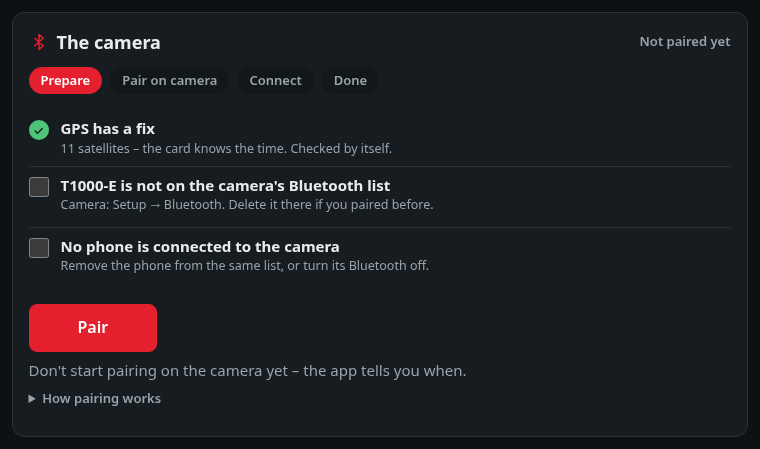
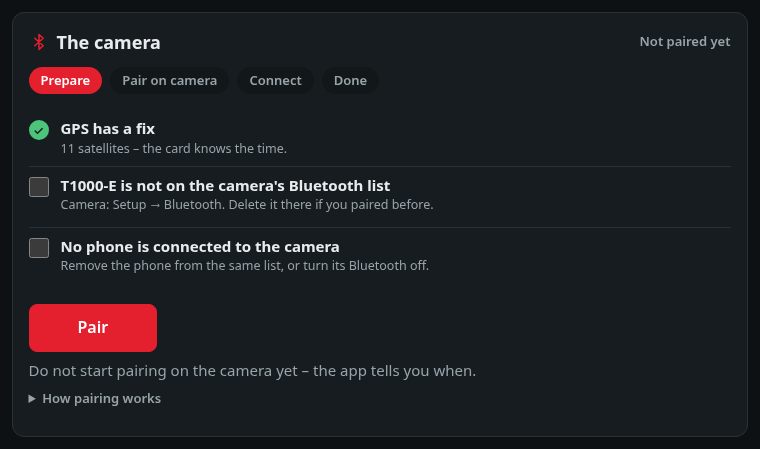
page: pairing limits from one place, plain texts, a shorter help
- PAIR_ATTEMPTS, PAIR_FIX_WAIT_MS and PAIR_SEARCH_MS sit together and the
  page test compares all three with src/pairing.cpp; the texts say the
  minutes through minutesText(), and 'pair older''s timeout is made of them.
  Seen red: PAIR_ATTEMPTS set to 4 fails "the page's pairing limits are
  the card's".
- Texts say "Do not" / "did not"; the dash and the ellipsis are escapes in
  the script, the connection stages have no ellipsis.
- "How pairing works" keeps only what the screens do not say: the GPS
  outdoors and the older cameras' Wi-Fi step.
- pairingBadge() returns the text and the class together; stepState() is
  shared by the row of steps and the connection stages.
- The page test takes the page's functions from its context and names only
  its constants and classes.
- New screenshots of Prepare, the connection and the failed pairing.

Removed: PAIR_FIX_WAIT_TEXT, PAIR_SEARCH_TEXT, the fixed 270 s timeout,
the progress bar's max in the HTML (set from the search time), "Checked by
itself", the five-step help list, the screenshots tool's answers to
'pair', 'pair off' and 'pair older' that no screenshot used, and a test
comment with history.

Changed region(s): [[0.0605, 0.8107, 0.6355, 0.8419], [0.3934, 0.3118, 0.5145, 0.343]]

diff --git a/docs/index.html b/docs/index.html
@@ -243,8 +243,8 @@ input.toggle:disabled { opacity: var(--disabled-opacity); cursor: default; }
    cannot read what it saved */
 .slow-note { --edge: var(--warn); --edge-tint: var(--warn-tint); margin: var(--s3) 0 0; }
 fieldset:disabled { opacity: var(--disabled-opacity); }
-ol.steps { margin: var(--s2) 0; padding-left: 22px; }
-ol.steps li { margin: var(--s1) 0; }
+ul.steps { margin: var(--s2) 0; padding-left: 22px; }
+ul.steps li { margin: var(--s1) 0; }
 /* A panel of a fixed height, about four and a half results, so what follows does not move while
    typing and the empty part reads as part of the list */
 #results {
@@ -693,7 +693,7 @@ button.big { min-height: 48px; padding: var(--s2) var(--s6); font-size: var(--fs
               <p class="note">Camera menu: Setup &rarr; Bluetooth &rarr; Pairing</p>
               <div id="pair-countdown" class="countdown">
                 <span id="pair-countdown-time" class="countdown-time" aria-hidden="true"></span>
-                <progress id="pair-countdown-bar" max="120" value="0"
+                <progress id="pair-countdown-bar" value="0"
                           aria-label="Time left to find the camera"></progress>
                 <small>left to find the camera</small>
               </div>
@@ -787,19 +787,12 @@ button.big { min-height: 48px; padding: var(--s2) var(--s6); font-size: var(--fs
 
         <details id="pairing-help" class="help">
           <summary>How pairing works</summary>
-          <ol class="steps">
-            <li>Put the card where its GPS gets a fix, outdoors or by a window: pairing needs the time from it.
-                The GPS tile above shows <em>Fix</em> when it is ready.</li>
-            <li>If the camera lists T1000&#8209;E from an earlier pairing, delete it there first: the camera does
-                not pair a card it already knows. Remove the phone from the same list too, or turn its Bluetooth
-                off: a phone may grab the camera the moment it starts pairing.</li>
-            <li>Click <em>Pair</em>. Do not start pairing on the camera yet: some cameras stay in pairing mode only
-                about 30 seconds, so the card must already be looking for them.</li>
-            <li>When this screen says <em>Start Bluetooth pairing on the camera now</em>, start pairing in the
-                camera's Bluetooth menu. The card looks for it for up to 2 minutes and tries up to 3 times.</li>
-            <li>Older cameras (LUMIX Sync generation) then need one more step, over the camera's own Wi-Fi
-                network, which only the gpxcam card app can do: the app starts it by itself and says what to do.</li>
-          </ol>
+          <ul class="steps">
+            <li>Pairing needs the time from the card's GPS: put the card where it gets a fix, outdoors or by a
+                window.</li>
+            <li>Older cameras (LUMIX Sync generation) need one more step, over the camera's own Wi-Fi network,
+                which only the gpxcam card app can do.</li>
+          </ul>
         </details>
       </div>
     </section>
@@ -927,12 +920,14 @@ const ANSWER_TIMEOUT_MS = 3000;
 const STATUS_PERIOD_MS = 5000; // the card's state on the page refreshes itself this often
 const PAIRING_STATUS_PERIOD_MS = 2000; // ... and this often while the card pairs
 const UNPAIR_TIMEOUT_MS = 10000; // the card first puts its GPS to sleep (up to 7.5 s), then writes flash
-// 'pair older': the card may wait 2 min for a GPS fix and 2 min for the camera, then introduce.
-const OLDER_START_TIMEOUT_MS = 270000;
-// Pairing as the card does it (src/pairing.cpp): the limits the page tells.
+// Pairing as the card does it (src/pairing.cpp MAX_ATTEMPTS, FIX_WAIT_MS, SEARCH_MS; the page's test compares):
+// the card looks for a camera in pairing mode PAIR_SEARCH_MS, and again as long after each quick retry and each
+// pause between attempts; its first line says it ("up to 120 s").
 const PAIR_ATTEMPTS = 3;
-const PAIR_FIX_WAIT_TEXT = "2 minutes";
-const PAIR_SEARCH_TEXT = "2 minutes";
+const PAIR_FIX_WAIT_MS = 120 * 1000;
+const PAIR_SEARCH_MS = 120 * 1000;
+// 'pair older': the card may wait for a GPS fix, then for the camera, then connect and introduce itself.
+const OLDER_START_TIMEOUT_MS = PAIR_FIX_WAIT_MS + PAIR_SEARCH_MS + 30 * 1000;
 // The commands that save a setting (time zone, clock, sound, location updates; 'tz' alone too): saving
 // writes flash, about 1 s, more the first time.
 const SAVE_TIMEOUT_MS = 6000;
@@ -1478,10 +1473,6 @@ function canPairOlder(version) {
 // While an older camera's Wi-Fi step waits for the user (app only).
 const WIFI_WAIT_TEXT = "Waiting for this computer to join\u2026 the app continues by itself (up to 5 minutes).";
 
-// The card looks for a camera in pairing mode this long, and again as long after each quick retry and each
-// pause between attempts (src/pairing.cpp SEARCH_MS); its first line says it ("up to 120 s").
-const PAIR_SEARCH_MS = 120 * 1000;
-
 // The screens of the camera section: prepare (1), camera (2: start pairing on the camera now), connect (3),
 // wifi (4: the older cameras' Wi-Fi step), done (5), failed (6). state: the card's last 'status'. ended: how
 // the last pairing the page followed ended (the card's pair_result, or "wifi-given-up"), null for none.
@@ -1531,14 +1522,18 @@ function pairingSteps(screen, older) {
   if (screen === "done" || screen === "failed") return null;
   const steps = PAIRING_STEPS.filter(([name]) => name !== "wifi" || older || screen === "wifi");
   const at = steps.findIndex(([name]) => name === screen);
-  return steps.map(([name, label], index) =>
-    ({ name, label, state: index < at ? "done" : index === at ? "current" : "later" }));
+  return steps.map(([name, label], index) => ({ name, label, state: stepState(index, at) }));
 }
 
-// The short state beside the section's title.
+// The short state beside the section's title: { text, kind }, kind the badge's class.
 function pairingBadge(state) {
-  if (state.pair !== "idle") return "Pairing…";
-  return state.paired ? "Paired" : "Not paired yet";
+  if (state.pair !== "idle") return { text: "Pairing\u2026", kind: "pairing" };
+  return state.paired ? { text: "Paired", kind: "paired" } : { text: "Not paired yet", kind: "" };
+}
+
+// The state of the step at index in a row whose current step is at `at`.
+function stepState(index, at) {
+  return index < at ? "done" : index === at ? "current" : "later";
 }
 
 // What a line of the card says about its pairing (src/pairing.cpp, newer_session.cpp, older_session.cpp),
@@ -1574,6 +1569,12 @@ function searchLeftMs(search, now) {
   return Math.min(search.lengthMs, Math.max(0, search.startsAt + search.lengthMs - now));
 }
 
+// "2 minutes": a limit of whole minutes, as the texts say it.
+function minutesText(ms) {
+  const minutes = ms / 60000;
+  return `${minutes} minute${minutes === 1 ? "" : "s"}`;
+}
+
 // "2:00" down to "0:00", in whole seconds rounded up.
 function countdownText(ms) {
   const seconds = Math.ceil(Math.max(0, ms) / 1000);
@@ -1589,39 +1590,38 @@ function countdownLabel(ms) {
   return `${parts.join(" ")} left`;
 }
 
-const CONNECT_STAGES = ["Camera in pairing mode", "Connected over Bluetooth", "Introducing the card to the camera…",
+const CONNECT_STAGES = ["Camera in pairing mode", "Connected over Bluetooth", "Introducing the card to the camera",
   "Setting the camera's clock"];
 
 // Screen 3: the stages with `done` of them done and the next one current.
 function connectStages(done) {
-  return CONNECT_STAGES.map((label, index) =>
-    ({ label, state: index < done ? "done" : index === done ? "current" : "later" }));
+  return CONNECT_STAGES.map((label, index) => ({ label, state: stepState(index, done) }));
 }
 
 // Screen 2: the line under the countdown, [text, kind]. nearby: the card saw a camera, but not in pairing
 // mode; pauseLeftMs: of the pause between attempts, null when not known.
 function cameraStepText(variant, state, { nearby = false, pauseLeftMs = null } = {}) {
   switch (variant) {
-    case "gps": return [`Waiting for the GPS time – ${satellitesText(state.gpsSatellites)} so far. Don't ` +
+    case "gps": return [`Waiting for the GPS time \u2013 ${satellitesText(state.gpsSatellites)} so far. Do not ` +
       "start pairing on the camera yet.", "busy"];
     case "pause": {
       const when = pauseLeftMs === null ? "in a moment" : `in ${Math.ceil(pauseLeftMs / 1000)} s`;
-      return [`Attempt ${state.pairAttempt} of ${PAIR_ATTEMPTS} didn't work – looking again ${when}. Keep ` +
+      return [`Attempt ${state.pairAttempt} of ${PAIR_ATTEMPTS} did not work \u2013 looking again ${when}. Keep ` +
         "the camera in pairing mode.", "warn"];
     }
     default:
       if (nearby) return ["A camera is nearby, but not in pairing mode yet.", "warn"];
       return [state.pairAttempt > 0 ? `Looking for the camera again (attempt ${state.pairAttempt + 1} of ` +
-        `${PAIR_ATTEMPTS})…` : "Looking for the camera…", "busy"];
+        `${PAIR_ATTEMPTS})\u2026` : "Looking for the camera\u2026", "busy"];
   }
 }
 
 // Screen 1: the GPS row, checked by itself from the card's state. { done, detail }
 function gpsCheck(state) {
   const satellites = satellitesText(state.gpsSatellites);
-  if (state.gpsFix) return { done: true, detail: `${satellites} – the card knows the time. Checked by itself.` };
+  if (state.gpsFix) return { done: true, detail: `${satellites} \u2013 the card knows the time.` };
   if (!state.gpsOn) return { done: false, detail: "The GPS switches on when pairing starts." };
-  return { done: false, detail: `Waiting for a fix – ${satellites} so far.` };
+  return { done: false, detail: `Waiting for a fix \u2013 ${satellites} so far.` };
 }
 
 // Screen 6: { title, text, older } for a pairing that ended without a camera; older: the box that offers
@@ -1629,18 +1629,18 @@ function gpsCheck(state) {
 // reason: the card's own words when it gave up (pairingEvent() gaveUp).
 function failedText(result, reason = null) {
   switch (result) {
-    case "no_camera": return { title: "The camera did not answer", text: `The card looked for ${PAIR_SEARCH_TEXT} ` +
-      "and didn't find a camera in pairing mode.", older: true };
+    case "no_camera": return { title: "The camera did not answer", text: `The card looked for ` +
+      `${minutesText(PAIR_SEARCH_MS)} and did not find a camera in pairing mode.`, older: true };
     case "not_in_pairing_mode": return { title: "The camera did not answer", text: "The card saw the camera, " +
-      `but not in pairing mode, for ${PAIR_SEARCH_TEXT}.`, older: true };
+      `but not in pairing mode, for ${minutesText(PAIR_SEARCH_MS)}.`, older: true };
     case "failed":
       if (reason !== null && reason.startsWith("no connection to the camera")) {
         return { title: "Pairing did not work", text: "The card could not connect to the camera: the connection " +
           "never came up.", older: true };
       }
       return { title: "Pairing did not work", text: `The camera did not take the card in ${PAIR_ATTEMPTS} attempts. ` +
-        "If it lists T1000‑E from an earlier pairing, delete it there.", older: true };
-    case "no_gps_fix": return { title: "No GPS time", text: `The card got no GPS time within ${PAIR_FIX_WAIT_TEXT}. ` +
+        "If it lists T1000\u2011E from an earlier pairing, delete it there.", older: true };
+    case "no_gps_fix": return { title: "No GPS time", text: `The card got no GPS time within ${minutesText(PAIR_FIX_WAIT_MS)}. ` +
       "Put it outdoors or by a window.", older: false };
     case "not_saved": return { title: "Pairing not saved", text: "The camera took the card, but the card could " +
       "not save the pairing.", older: false };
@@ -2187,7 +2187,7 @@ function startPage() {
     ui.checkGps.className = gps.done ? "check-done" : "";
     ui.checkGpsDetail.textContent = gps.detail;
     ui.pairKeep.classList.toggle("hidden", !lastState.paired);
-    ui.pairWaitNote.textContent = `Don't start pairing on the camera yet \u2013 ${inApp ? "the app" : "this page"} ` +
+    ui.pairWaitNote.textContent = `Do not start pairing on the camera yet \u2013 ${inApp ? "the app" : "this page"} ` +
       "tells you when.";
   };
 
@@ -2244,9 +2244,9 @@ function startPage() {
       return;
     }
     const { screen, variant } = pairingScreen(lastState, pairing);
-    ui.pairBadge.textContent = pairingBadge(lastState);
-    const badge = lastState.pair !== "idle" ? " pairing" : lastState.paired ? " paired" : "";
-    ui.pairBadge.className = `pair-badge${badge}`;
+    const badge = pairingBadge(lastState);
+    ui.pairBadge.textContent = badge.text;
+    ui.pairBadge.className = `pair-badge ${badge.kind}`.trimEnd();
     showSteps(pairingSteps(screen, pairing.older));
     for (const name of PAIRING_SCREENS) element(`pair-screen-${name}`).classList.toggle("hidden", name !== screen);
     if (screen !== helpScreen) ui.pairingHelp.open = false; // opened by the user, it stays open on this screen only

diff --git a/app/README.md b/app/README.md
@@ -17,7 +17,7 @@ pairing, the camera's clock and time zone, location updates and sound.
 
 *After Connect: the card's state, refreshed every few seconds.*
 
-![Pairing, Prepare: the steps Prepare, Pair on camera, Connect and Done, with Prepare current; "GPS has a fix" checked by itself, two reminders to tick (T1000-E not on the camera's Bluetooth list, no phone connected to the camera), the Pair button and "Don't start pairing on the camera yet – the app tells you when."](../docs/images/app-pair-prepare.png)
+![Pairing, Prepare: the steps Prepare, Pair on camera, Connect and Done, with Prepare current; "GPS has a fix" checked by itself, two reminders to tick (T1000-E not on the camera's Bluetooth list, no phone connected to the camera), the Pair button and "Do not start pairing on the camera yet – the app tells you when."](../docs/images/app-pair-prepare.png)
 
 *Pairing, step by step: Prepare checks the GPS by itself and reminds of the camera's list and the
 phone.*
@@ -39,7 +39,7 @@ phone.*
 
 *Paired.*
 
-![A pairing that found no camera: "The camera did not answer", "The card looked for 2 minutes and didn't find a camera in pairing mode.", three tips and Try again; below it "An older camera? (S5, S1, GH5, GH6, G9, G100…)" with Pair as an older camera](../docs/images/app-pair-failed.png)
+![A pairing that found no camera: "The camera did not answer", "The card looked for 2 minutes and did not find a camera in pairing mode.", three tips and Try again; below it "An older camera? (S5, S1, GH5, GH6, G9, G100…)" with Pair as an older camera](../docs/images/app-pair-failed.png)
 
 *No camera found: why, what to check, and the only place that offers pairing as with an older camera.*
 
